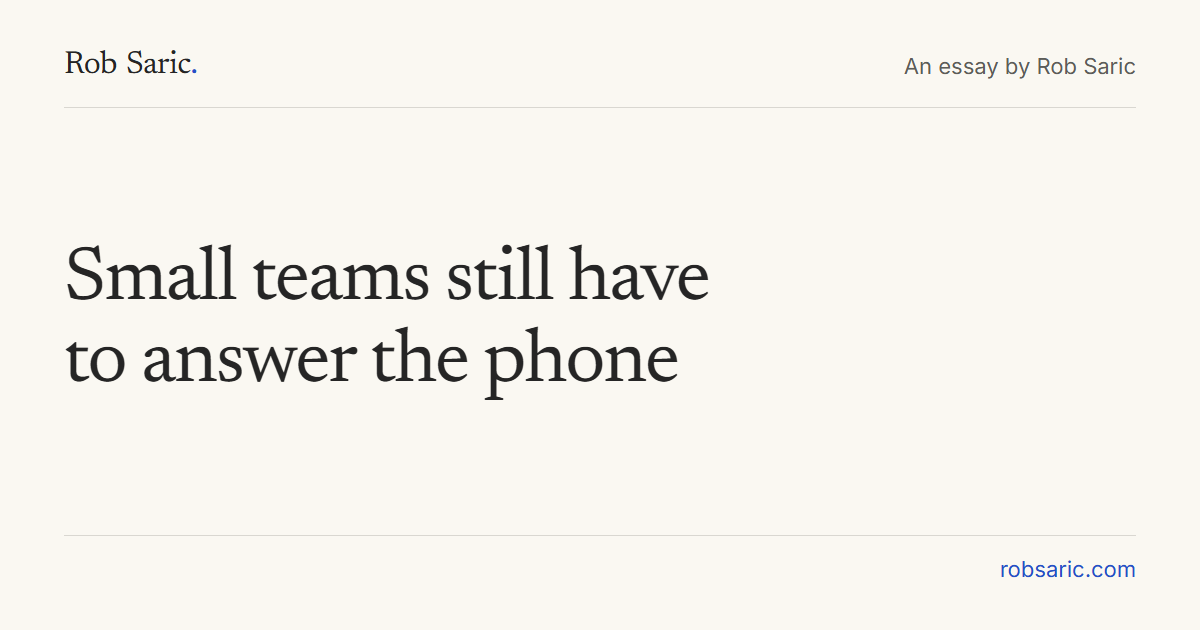
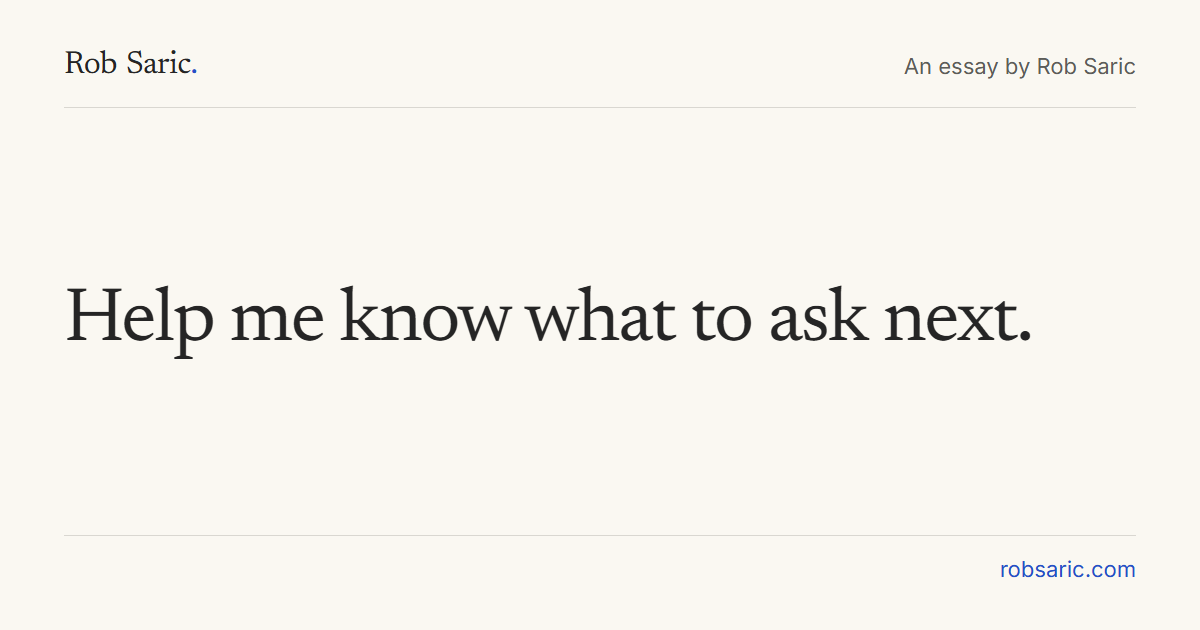
content: help readers know what to ask next (#26)

Changed region(s): [[0.0308, 0.3921, 0.8633, 0.6333]]

diff --git a/src/data/editorial.ts b/src/data/editorial.ts
@@ -194,22 +194,22 @@ export const EARLIER_WRITING = [
 // is unavailable in this build, including when the chosen essay is a draft.
 export const NEXT_READS: Record<string, readonly { href: string; reason: string }[]> = {
   '/field-notes/2026-10-18-small-teams-deserve-their-time-back/': [
-    { href: '/field-notes/2026-10-18-building-with-ai-and-life-beyond-the-feed/', reason: 'Why giving people time back matters beyond the workday.' },
-    { href: '/archive/treat-contractors-well/', reason: 'Clear handoffs start with how we treat the people doing the work.' },
+    { href: '/field-notes/2026-10-19-are-dashboards-dead/', reason: 'Once you decide what needs attention, how do you learn whether the work helped?' },
+    { href: '/archive/great-systems-need-to-create-flow/', reason: 'An earlier look at designing around the person using the system.' },
   ],
   '/field-notes/2026-10-18-building-with-ai-and-life-beyond-the-feed/': [
-    { href: '/field-notes/2026-10-18-small-teams-deserve-their-time-back/', reason: 'What happens when a prototype becomes a promise to a customer.' },
+    { href: '/field-notes/2026-10-18-small-teams-deserve-their-time-back/', reason: 'Why useful software gives you somewhere to begin.' },
     { href: '/archive/great-systems-need-to-create-flow/', reason: 'An earlier look at designing for flow, and what makes an experience worth having.' },
   ],
   '/field-notes/2026-10-19-are-dashboards-dead/': [
-    { href: '/field-notes/2026-10-18-small-teams-deserve-their-time-back/', reason: 'The work a small team takes on when a prototype becomes a promise.' },
+    { href: '/field-notes/2026-10-18-small-teams-deserve-their-time-back/', reason: 'How an insight helps you reach the next question worth asking.' },
   ],
   '/archive/building-a-startup-requires-self-awareness/': [
-    { href: '/field-notes/2026-10-18-small-teams-deserve-their-time-back/', reason: 'What I want to build next, and the test it has to pass.' },
+    { href: '/field-notes/2026-10-18-small-teams-deserve-their-time-back/', reason: 'What an early Caretrics tool taught me about where people need to start.' },
     { href: '/archive/treat-contractors-well/', reason: 'How the way you work with others shapes what you build.' },
   ],
   '/archive/treat-contractors-well/': [
-    { href: '/field-notes/2026-10-18-small-teams-deserve-their-time-back/', reason: 'Why a clear handoff matters after the customer says yes.' },
+    { href: '/field-notes/2026-10-18-small-teams-deserve-their-time-back/', reason: 'Meeting people where they are when you build for them.' },
     { href: '/archive/great-systems-need-to-create-flow/', reason: 'Designing systems around the people who use them.' },
   ],
   '/archive/great-systems-need-to-create-flow/': [

diff --git a/src/data/principles.ts b/src/data/principles.ts
@@ -36,7 +36,7 @@ export const PRINCIPLES: Principle[] = [
     body: 'I use AI to build. I also want people to know what it used, check an answer, correct it and decide whether it gets to act.',
     choice: 'I would rather ask for a decision at the right moment than quietly make one on someone’s behalf. Speed is useful when people can trust the work that follows.',
     href: '/field-notes/2026-10-18-small-teams-deserve-their-time-back/',
-    link: 'The responsibility that comes with building',
+    link: 'Helping people ask better questions',
   },
   {
     line: 'Be willing to change your mind.',

diff --git a/src/content/notes/2026-10-18-small-teams-deserve-their-time-back.md b/src/content/notes/2026-10-18-small-teams-deserve-their-time-back.md
@@ -1,69 +1,42 @@
 ---
-title: "Small teams still have to answer the phone"
-summary: "AI can make a new service easier to build. It doesn’t make the promises to customers disappear. A small team needs room to keep them."
+title: "Help me know what to ask next."
+summary: "An early Caretrics tool let people ask questions about their data. The harder job was helping them know where to start, and which question to ask next."
 type: "Field note"
 date: 2026-10-18
-updated: 2026-10-19
+updated: 2026-10-29
 tags: ["Founder notes"]
 stage: -1
 draft: false
 ---
 
-AI can help a small team launch something it couldn’t have afforded to build before. But once a customer depends on it, somebody still has to answer the phone.
+I built an early version of Caretrics that let people ask questions about their data. I thought that freedom would be useful.
 
-That is the part of the small-team conversation I care about. I want more people to have a chance to build a business. I also want that business to be one they can live with.
+But people didn’t necessarily know what to ask.
 
-## The work behind the demo
+I had built around what the technology could answer. I needed to spend more time thinking about where the person using it was starting.
 
-Imagine a design studio with three people. This is a hypothetical example, not a customer story.
+A clinic owner opens the software between everything else they have to do. They might know something feels off. They might just want to know how the week went. Either way, “What would you like to know?” gives them another job.
 
-A client asks for a portal where they can check progress instead of sending another email. The studio uses AI to help build a prototype. The client likes it, so the studio includes it in the next project.
+Showing them something worth investigating gives them a starting point.
 
-But a revised delivery date stays in the studio’s meeting notes. Nobody updates the portal. The client plans around the old date and calls when the work doesn’t arrive. Now somebody has to stop designing, work out what happened and repair the trust.
+Consider an illustrative example. Suppose your clinic billed less than usual last month. Your first question might be whether you need more patients.
 
-To keep the portal current, the studio tries generating updates from those notes. But the notes mix confirmed decisions with things people only suggested. A fluent summary makes both sound settled.
+But looking closer, you discover that bookings were steady. More appointments were cancelled, and those spaces stayed empty.
 
-So the useful change starts earlier. The team needs a place to record what was actually agreed, and a person responsible for changing it. The portal can show that decision. AI can help draft the explanation. Someone still needs to know whether the explanation is true.
+Now you have a different question: why couldn’t we fill them?
 
-The studio wanted fewer interruptions. Without that change, it has given clients another reason to call.
+Perhaps cancellations cluster around particular appointment times. Perhaps your team learns about them too late. Perhaps there’s a waiting list, but contacting people takes more time than the front desk has.
 
-<figure class="commitment-sketch">
-  <div class="commitment-sketch-flow">
-    <div>
-      <p class="sketch-question">Can we build it?</p>
-      <p>A prototype we can try.</p>
-    </div>
-    <svg class="sketch-arrow" viewBox="0 0 72 36" width="72" height="36" fill="none" aria-hidden="true" focusable="false"><path d="M3 25C20 7 38 8 63 16M52 5L65 16L51 25" stroke="currentColor" stroke-width="2" stroke-linecap="round" stroke-linejoin="round"/></svg>
-    <div>
-      <p class="sketch-question">Can we <span class="ink-underline">look after it?</span></p>
-      <p>A promise someone owns.</p>
-    </div>
-  </div>
-  <figcaption>A working demo answers the first question. Before selling it, answer the second.</figcaption>
-</figure>
+Those possibilities call for different decisions. Spending more on marketing might bring in enquiries while leaving the same gaps in your schedule.
 
-## What the pizzas were supposed to mean
+That’s why the second and third questions matter. Each answer should help you understand what to investigate next. A pattern gives you somewhere to look; you still need to check what’s happening with the people doing the work.
 
-Amazon’s [two-pizza team model](https://aws.amazon.com/executive-insights/content/amazon-two-pizza-team/) gets remembered for the food: keep a team small enough to feed with two pizzas. But Amazon’s explanation also gives the team a defined area to own, the authority to make decisions and responsibility for running what it launches.
+This changed how I think about building Caretrics. Start with an insight someone can understand. Make the evidence easy to examine. Let them dig deeper as their questions become more specific.
 
-That matters more to me than the headcount. If AI lets a team build with fewer people, the work still needs an owner who can understand it and change it. Calling it a one-pizza team doesn’t settle who picks up when a customer is stuck.
+Some people will want a chart. Others will ask a follow-up question. The interface should support both without making them learn how the software thinks.
 
-In the studio example, the portal might still be worth offering. But its price and the project plan need to account for keeping it accurate, fixing it and helping people use it. The prototype alone cannot tell the team whether this is a good business.
+AI can produce an extraordinary amount of information. The harder design problem is deciding what will help someone move forward.
 
-I learned a version of that with Athlete Builder. We had customers in youth sports. I couldn’t make the economics work. Making something people want and building a company that can keep providing it are different jobs.
+“Ask anything” is a promise about what the software can do.
 
-## Give the team a choice
-
-This is what interests me about AI for small businesses: someone with deep knowledge of a problem may be able to test a solution before they can afford a full development team. That could give more people a chance to own what they build.
-
-But if every saved hour is already promised to a customer, there is no room left to fix a recurring problem or teach someone else the work.
-
-I’m exploring that handoff problem with SkillNav, which is still in development. When a project changes hands, the next person needs to understand what was promised without having to find the founder. I want the tools to help carry that knowledge, with enough context for someone to question the answer.
-
-The right next step might be hiring someone to keep the service dependable, even if AI helped you build it with fewer people. It might be sorting out the handoff so the owner can take a day off. Staying small is useful only if the people in the business have choices.
-
-Before saying yes to the next AI-assisted project, ask who will look after it once a customer depends on it, and what they will stop doing to make room.
-
-Leave room to keep your promises.
-
-<p class="essay-source">Reading that prompted this note: Daniel Bentes’s <a href="https://medium.com/agileinsider/the-age-of-the-1-pizza-team-6205389b0c56">The Age of the 1-Pizza Team</a>.</p>
+“Here’s something worth looking at” gives the person a place to begin.
